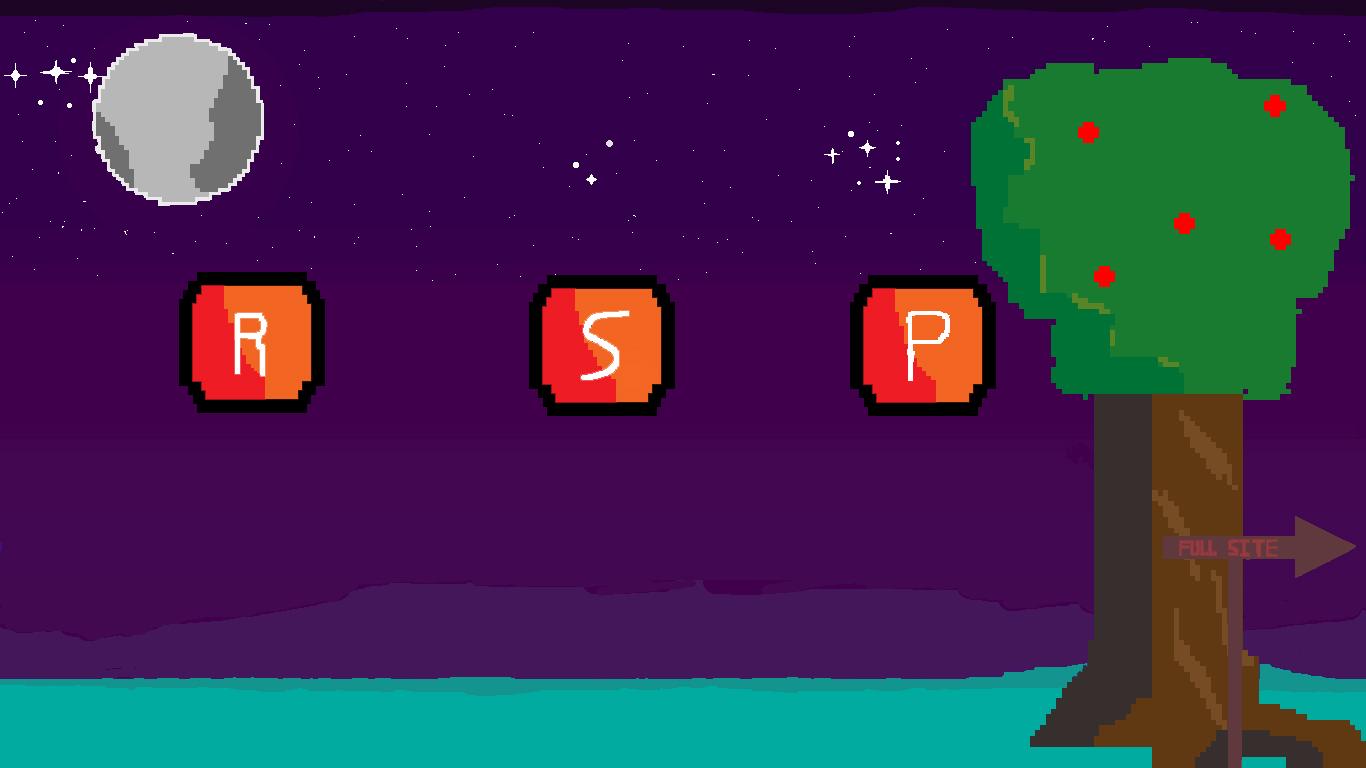
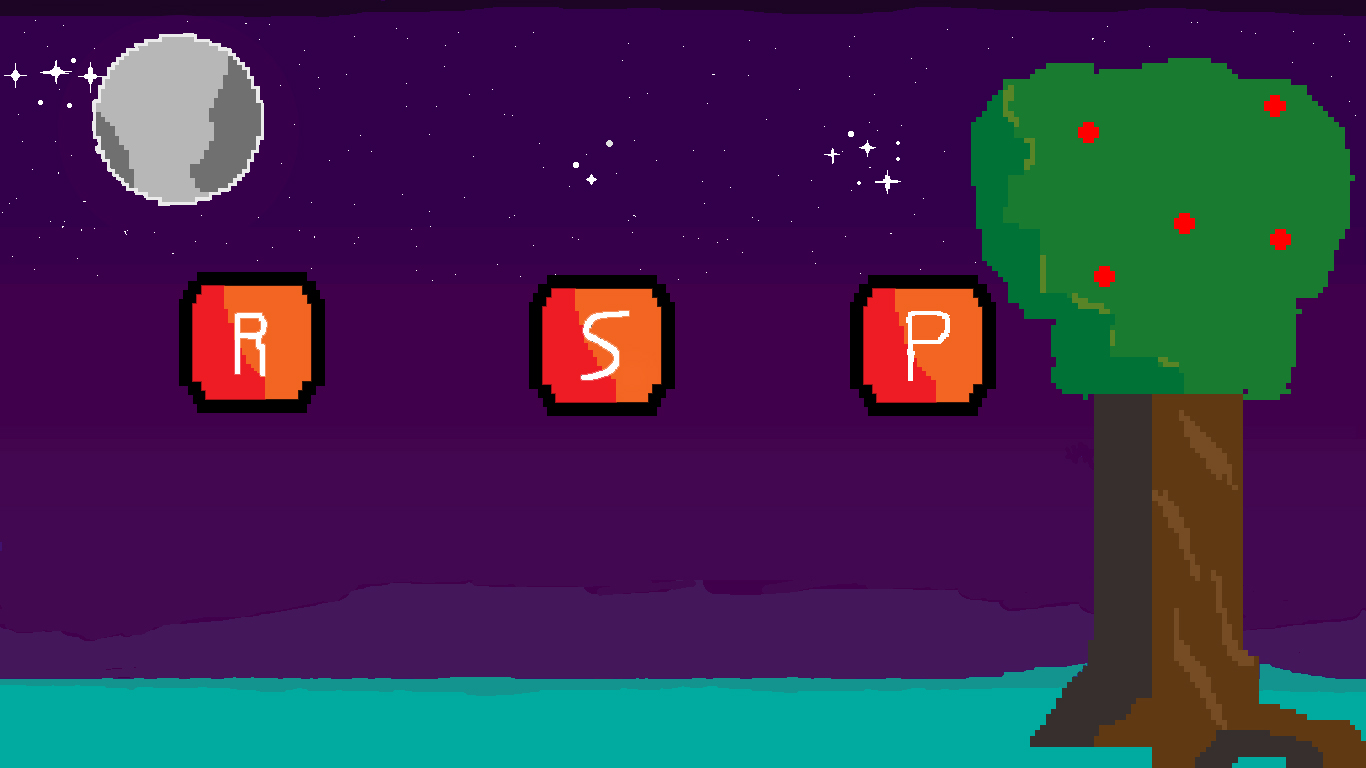
Fixed Stuff and Testing out redirects

Changed region(s): [[0.8302, 0.6875, 1.0, 1.0]]

diff --git a/game.js b/game.js
@@ -33,7 +33,7 @@ var bgImage = new Image();
 bgImage.onload = function () {
   bgReady = true;
 };
-bgImage.src = "img/back.jpg";
+bgImage.src = "img/bground.jpg";
 
 // Hero image
 var heroReady = false;
@@ -58,8 +58,13 @@ var hero = {
 var monster = {};
 var monstersCaught = 0;
 
+var minerImage = new Image();
+minerImage.src = "img/Miner.png";
+
 // Handle keyboard controls
 var keysDown = {};
+
+
 
 addEventListener("keydown", function (e) {
   keysDown[e.keyCode] = true;
@@ -96,18 +101,21 @@ var update = function (modifier) {
   if (39 in keysDown) { // Player holding right
     hero.x += hero.speed * modifier;
     if (hero.x > 1150) {
-    	//add website
+    	window.location.href = "www.kyleheilman.com/main";
     }
   }
   if(32 in keysDown) { //Holding space
+    ctx.drawImage(minerImage, hero.x - 40, hero.y - 200);
+    
   	if(hero.x > 400 && hero.x < 500) {
-  		hero.x = 800;
+  		//hero.x = 800;
   	}
   	if(hero.x < 830 && hero.x > 740) {
-  		hero.x = 750;
+      ctx.fillText("Go right for ffdssdfsdsdsdfsdsdf", 600, 750);
+  		//hero.x = 750;
   	}
   	if (hero.x < 220 && hero.x > 60) {
-  		hero.x = 1150;
+  		//hero.x = 1150;
   	}
   	
   }
@@ -144,17 +152,19 @@ var render = function () {
   ctx.fillStyle = "rgb(250, 250, 250)";
   ctx.font = "24px Helvetica";
   ctx.textAlign = "left";
-  ctx.textBaseline = "top";
-  //ctx.fillText("Goblins caught: " + monstersCaught, 32, 32);
+  ctx.textBaseline = "bottom";
+  ctx.fillText("Press 'Space' to select", 600, 700);
+  ctx.fillText("R - Resume, S - Social, P - Projects", 530, 725);
+  ctx.fillText("Go right for full website", 600, 750);
 };
 
 // The main game loop
 var main = function () {
   var now = Date.now();
   var delta = now - then;
-
-  update(delta / 1000);
   render();
+  update(delta / 1000);
+  //render();
 
   then = now;
 

diff --git a/main.html b/main.html
@@ -1,0 +1,9 @@
+<!DOCTYPE HTML>
+<html>
+<head>
+ 
+<title>Boobs</title>
+
+    
+</body>
+</html>
